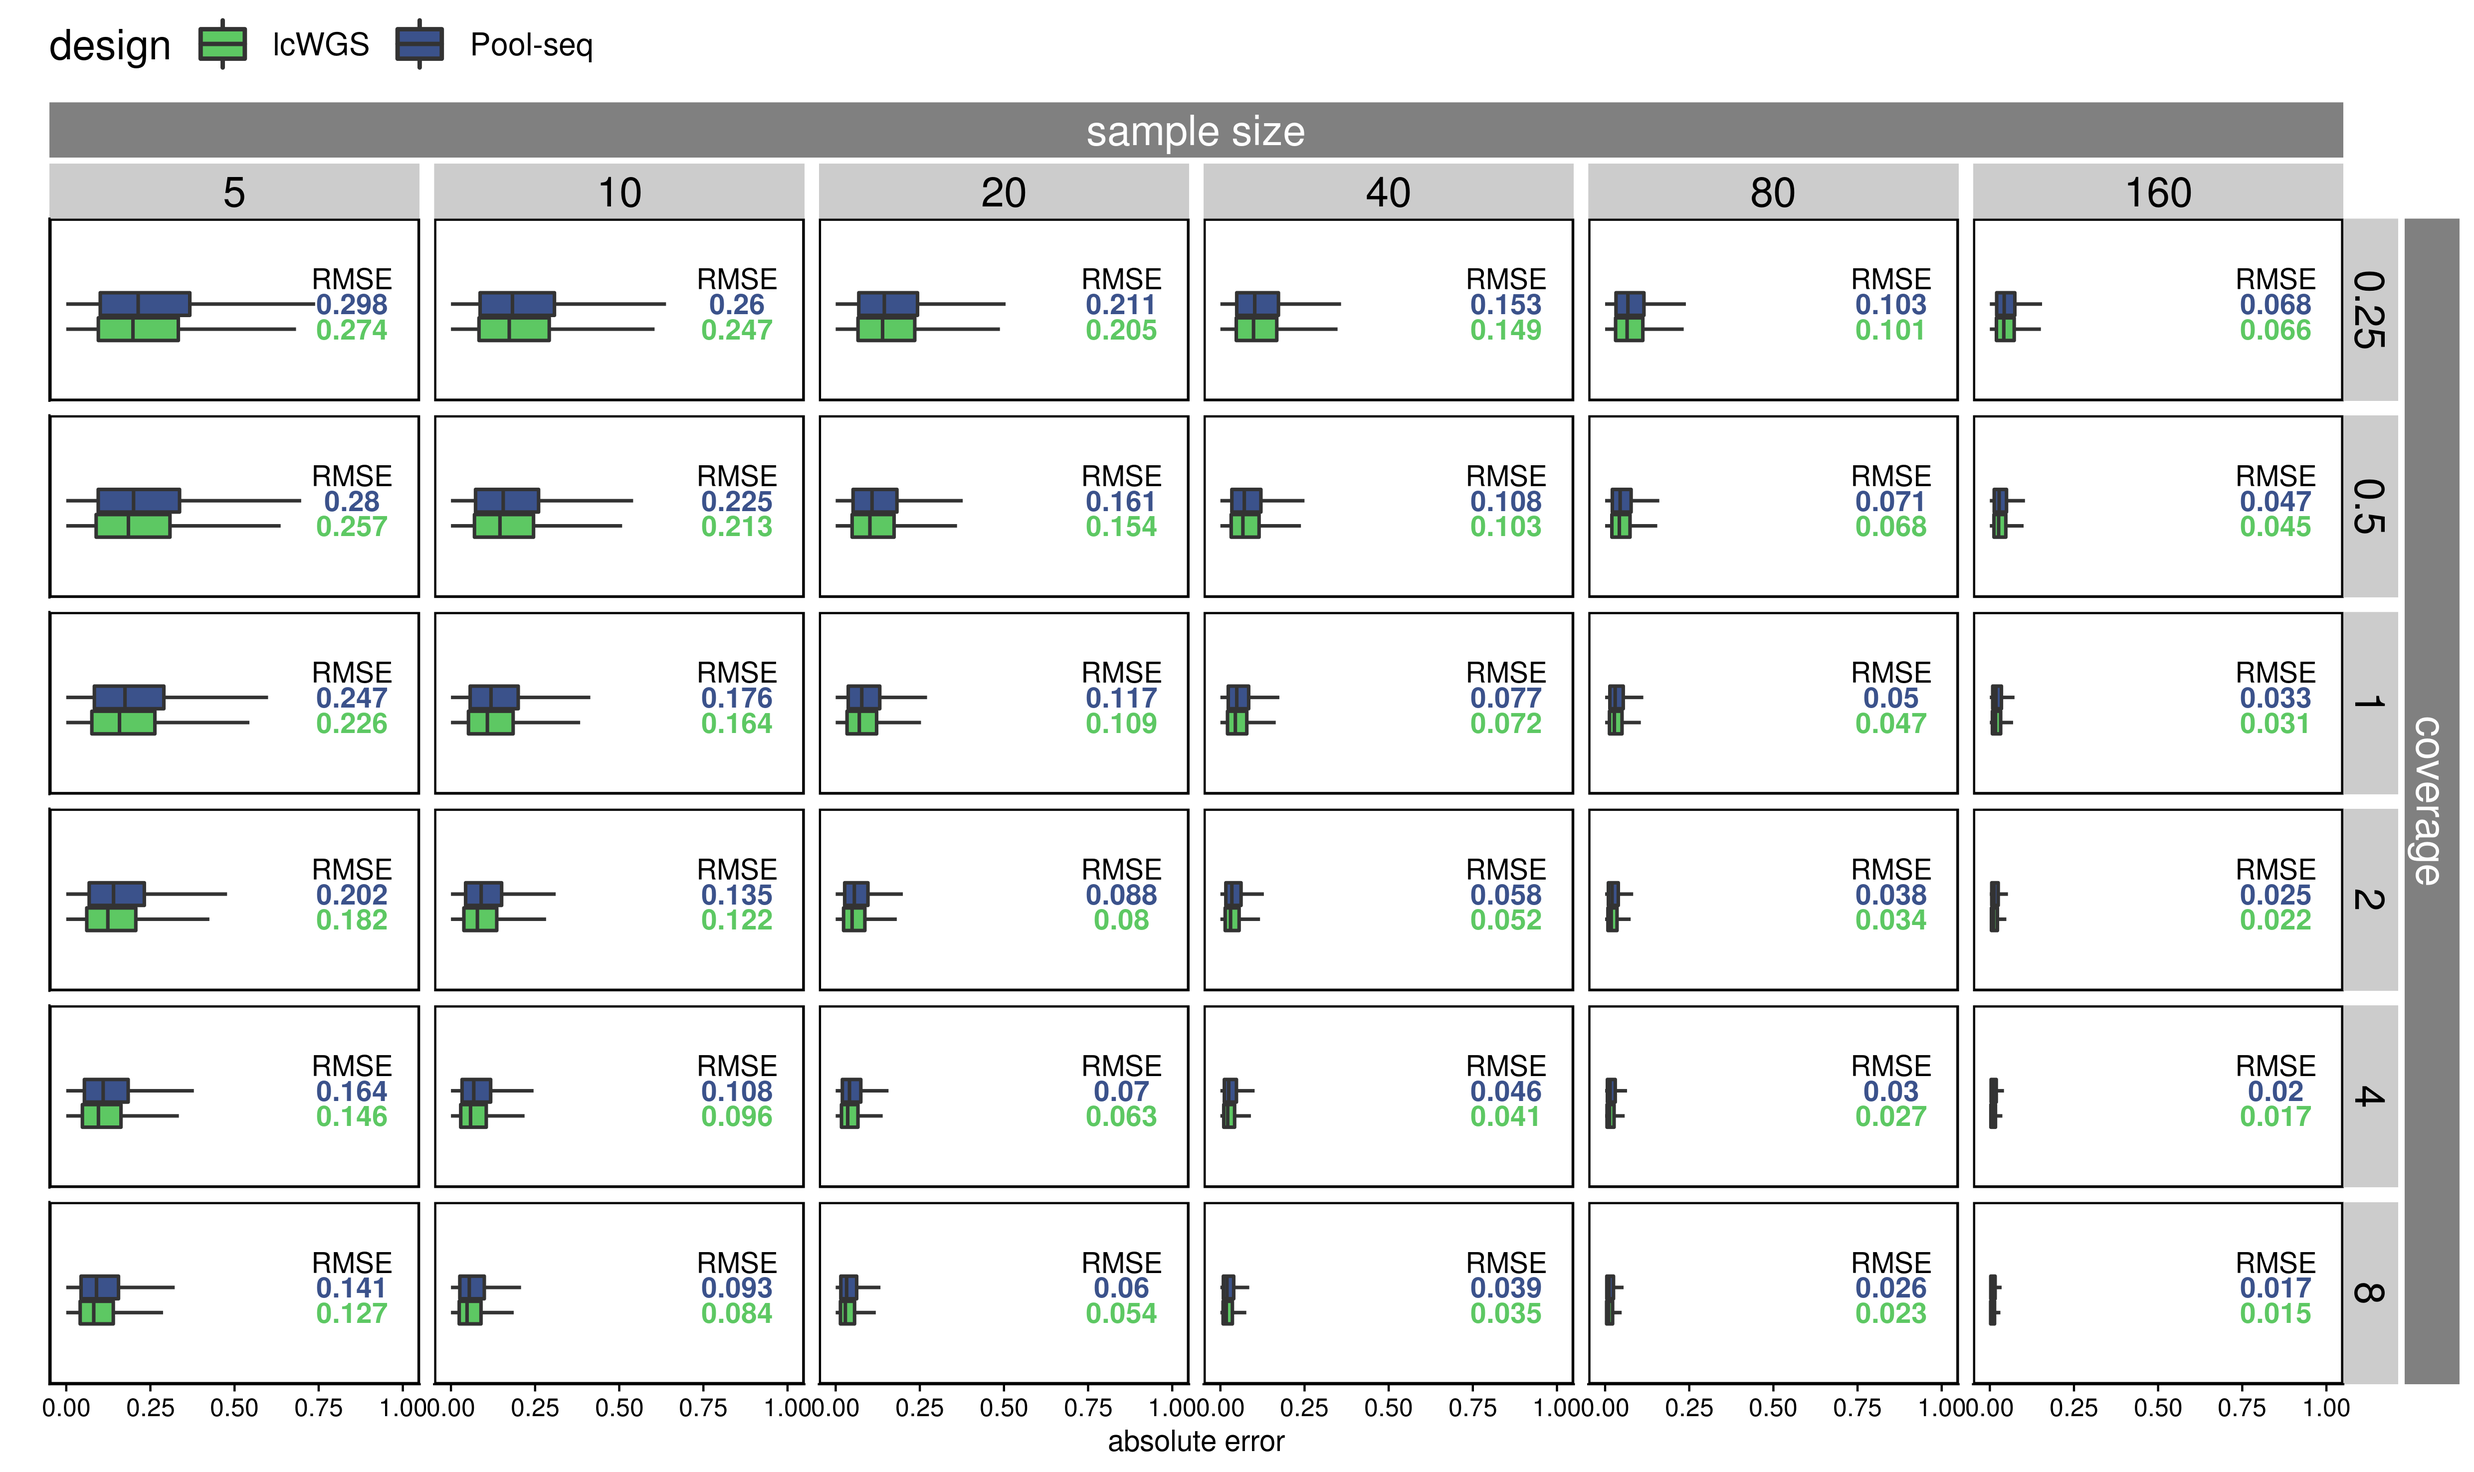
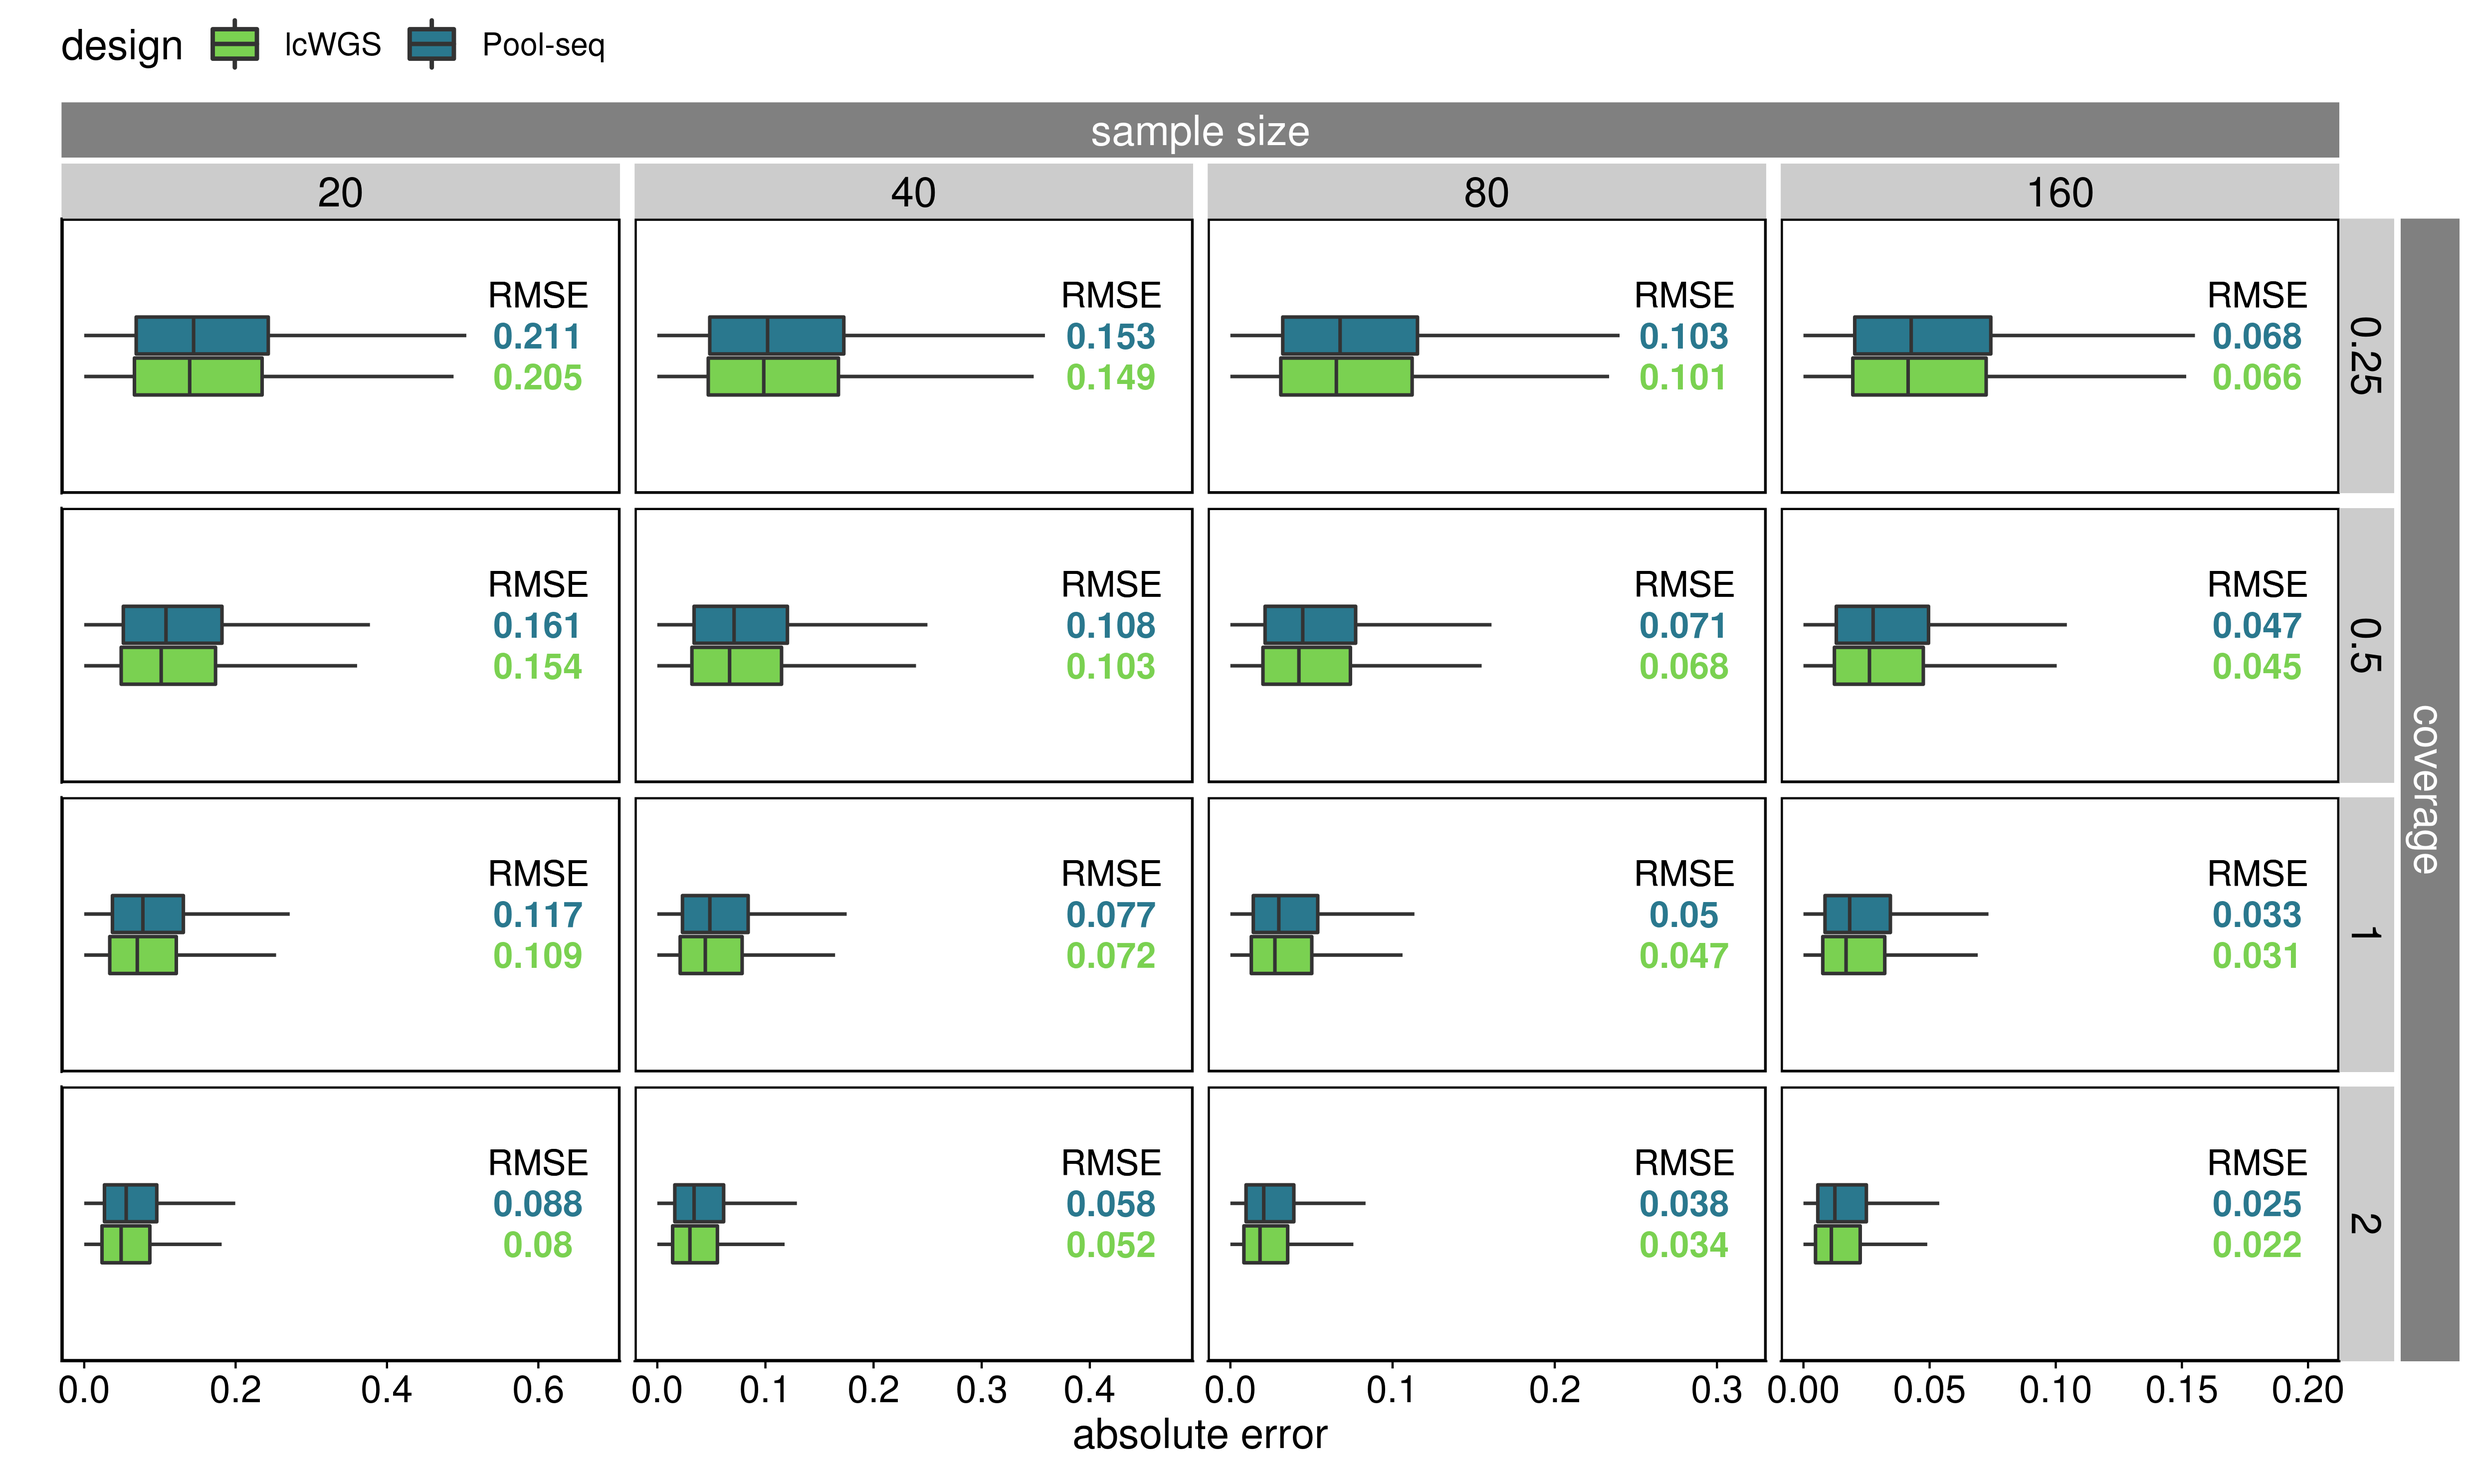
revised poolseq comparison plots

diff --git a/markdowns/figures.md b/markdowns/figures.md
@@ -103,32 +103,46 @@ include_graphics("../figures/error_plot_combined.png")
 
 ``` r
 ## combine these
-joined_frequency_final_combined <- bind_rows(joined_frequency_final_even, joined_frequency_final_pooled_even) 
+joined_frequency_final_combined <- bind_rows(joined_frequency_final_even, joined_frequency_final_pooled_even) %>%
+  filter(coverage<4, sample_size>10)
+
+## get y position for labels
+y_position <- tibble(sample_size = c(20, 40, 80, 160),
+                     y = c(0.6, 0.42, 0.28, 0.18))
 
 ## get summary stats (number of SNPs, RMSE, R-squared)
 joined_summary_table <- group_by(joined_frequency_final_combined, coverage, sample_size, design) %>%
   summarise(r_squared=round(summary(lm(estimated_frequency~frequency))$r.squared,3), 
             n=n(), 
-            root_mean_error_squared=round(sqrt(mean(error^2)), 3))
+            root_mean_error_squared=round(sqrt(mean(error^2)), 3)) %>%
+  left_join(y_position)
   
-joined_frequency_final_combined_test <- joined_frequency_final_combined[sample(1:nrow(joined_frequency_final_combined), 1000000),]
+joined_frequency_final_summary <- joined_frequency_final_combined %>%
+  mutate(abs_error = abs(error)) %>%
+  group_by(coverage, sample_size, design) %>%
+  summarise(boxplot=list(setNames(boxplot.stats(abs_error)$stats,
+                                      c('lower_whisker','lower_hinge','median','upper_hinge','upper_whisker')))) %>%
+  unnest_wider(boxplot)
+  
 ## make the plot
-error_plot_combined <- joined_frequency_final_combined %>%
-  ggplot(aes(y=abs(error), fill=design)) +
-  geom_boxplot(outlier.shape = NA, size = 0.8, notch = F, fatten = 1, width=0.5) +
-  geom_text(data = joined_summary_table, y = 0.85, aes(label=root_mean_error_squared, color = design, x = -0.375+as.numeric(as.factor(design))/4), fontface = "bold", size=4.8, show.legend = F) +
-  annotate("text", x = 0.375, y = 0.85, label="RMSE", size=4.8) +
-  facet_grid(coverage~sample_size) +
-  scale_x_discrete(labels=seq(0.1, 0.9, 0.2))  +
-  scale_fill_viridis_d(labels=c("lcWGS", "Pool-seq"), begin = 0.25, end = 0.75, direction = -1) +
-  scale_color_viridis_d(labels=c("lcWGS", "Pool-seq"), begin = 0.25, end = 0.75, direction = -1) +
+error_plot_combined <- joined_frequency_final_summary %>%
+  ggplot() +
+  geom_boxplot(mapping = aes(lower=lower_hinge, upper=upper_hinge, middle=median, ymin=lower_whisker, ymax=upper_whisker, fill=design, x=0), 
+               size = 0.8, notch = F, fatten = 1, width=0.5, stat="identity") +
+  geom_text(data = joined_summary_table, aes(y=y, label=root_mean_error_squared, color = design, x = -0.375+as.numeric(as.factor(design))/4), fontface = "bold", size=6, show.legend = F) +
+  geom_text(data = joined_summary_table, aes(y=y), x = 0.375, size=6, label = "RMSE", show.legend = F) +
+  facet_grid(coverage~sample_size, scales = "free") +
+  scale_x_discrete()  +
+  scale_fill_viridis_d(labels=c("lcWGS", "Pool-seq"), begin = 0.4, end = 0.8, direction = -1) +
+  scale_color_viridis_d(labels=c("lcWGS", "Pool-seq"), begin = 0.4, end = 0.8, direction = -1) +
   xlab("") +
   ylab("absolute error") +
-  ylim(c(0,1)) +
+  scale_y_continuous(expand=expand_scale(c(0.05, 0.18), 0)) +
   coord_flip() +
   theme_cowplot() +
   theme(strip.text = element_text(size=20),
-        axis.text.x = element_text(angle=0),
+        axis.title = element_text(size=20),
+        axis.text  = element_text(size=18),
         panel.border = element_rect(colour = "black", fill=NA, size=1),
         legend.position = "top",
         legend.title = element_text(size = 20),
@@ -138,18 +152,19 @@ error_plot_combined <- joined_frequency_final_combined %>%
 
 error_plot_combined_grob <- ggplotGrob(error_plot_combined)
 
-error_plot_combined_new <- gtable_add_cols(error_plot_combined_grob, unit(error_plot_combined_grob$widths[[16]], 'cm'), 16)  %>%
+error_plot_combined_new <- gtable_add_cols(error_plot_combined_grob, unit(error_plot_combined_grob$widths[[11]], 'cm'), 13)  %>%
   gtable_add_grob(list(rectGrob(gp = gpar(col = NA, fill = gray(0.5))),
                        textGrob("coverage", rot = -90, gp = gpar(col = gray(1)))),
-                  10, 17, 20, 17, name = paste(runif(2))) %>%
-  gtable_add_cols(unit(1/8, "line"), 16) %>%
+                  10, 14, 16, 14, name = paste(runif(2))) %>%
+  gtable_add_cols(unit(1/8, "line"), 13) %>%
   gtable_add_rows(unit(error_plot_combined_grob$heights[[9]], 'cm'), 8) %>%
   gtable_add_grob(list(rectGrob(gp = gpar(col = NA, fill = gray(0.5))),
                           textGrob("sample size", gp = gpar(col = gray(1)))),
-                     9, 5, 9, 15, name = paste(runif(2))) %>%
+                     9, 5, 9, 11, name = paste(runif(2))) %>%
   gtable_add_rows(unit(1/8, "line"), 9)
 
 ggsave("../figures/error_plot_combined_for_box_2.png", error_plot_combined_new, width = 42, height = 25, units = "cm", pointsize = 20)
+ggsave("../figures/error_plot_combined_for_box_2.pdf", error_plot_combined_new, width = 42, height = 25, units = "cm", pointsize = 20)
 ```
 
 ``` r
@@ -162,32 +177,46 @@ include_graphics("../figures/error_plot_combined_for_box_2.png")
 
 ``` r
 ## combine these
-joined_frequency_final_combined <- bind_rows(joined_frequency_final_uneven, joined_frequency_final_pooled_uneven) 
+joined_frequency_final_combined <- bind_rows(joined_frequency_final_uneven, joined_frequency_final_pooled_uneven) %>%
+  filter(coverage<4, sample_size>10)
+
+## get y position for labels
+y_position <- tibble(sample_size = c(20, 40, 80, 160),
+                     y = c(0.6, 0.42, 0.28, 0.18))
 
 ## get summary stats (number of SNPs, RMSE, R-squared)
 joined_summary_table <- group_by(joined_frequency_final_combined, coverage, sample_size, design) %>%
   summarise(r_squared=round(summary(lm(estimated_frequency~frequency))$r.squared,3), 
             n=n(), 
-            root_mean_error_squared=round(sqrt(mean(error^2)), 3))
+            root_mean_error_squared=round(sqrt(mean(error^2)), 3)) %>%
+  left_join(y_position)
   
-joined_frequency_final_combined_test <- joined_frequency_final_combined[sample(1:nrow(joined_frequency_final_combined), 1000000),]
+joined_frequency_final_summary <- joined_frequency_final_combined %>%
+  mutate(abs_error = abs(error)) %>%
+  group_by(coverage, sample_size, design) %>%
+  summarise(boxplot=list(setNames(boxplot.stats(abs_error)$stats,
+                                      c('lower_whisker','lower_hinge','median','upper_hinge','upper_whisker')))) %>%
+  unnest_wider(boxplot)
+  
 ## make the plot
-error_plot_combined <- joined_frequency_final_combined %>%
-  ggplot(aes(y=abs(error), fill=design)) +
-  geom_boxplot(outlier.shape = NA, size = 0.8, notch = F, fatten = 1, width=0.5) +
-  geom_text(data = joined_summary_table, y = 0.85, aes(label=root_mean_error_squared, color = design, x = -0.375+as.numeric(as.factor(design))/4), fontface = "bold", size=4.8, show.legend = F) +
-  annotate("text", x = 0.375, y = 0.85, label="RMSE", size=4.8) +
-  facet_grid(coverage~sample_size) +
-  scale_x_discrete(labels=seq(0.1, 0.9, 0.2))  +
-  scale_fill_viridis_d(labels=c("lcWGS with uneven coverage", "Pool-seq with uneven coverage"), begin = 0.25, end = 0.75, direction = -1) +
-  scale_color_viridis_d(labels=c("lcWGS with uneven coverage", "Pool-seq with uneven coverage"), begin = 0.25, end = 0.75, direction = -1) +
+error_plot_combined <- joined_frequency_final_summary %>%
+  ggplot() +
+  geom_boxplot(mapping = aes(lower=lower_hinge, upper=upper_hinge, middle=median, ymin=lower_whisker, ymax=upper_whisker, fill=design, x=0), 
+               size = 0.8, notch = F, fatten = 1, width=0.5, stat="identity") +
+  geom_text(data = joined_summary_table, aes(y=y, label=root_mean_error_squared, color = design, x = -0.375+as.numeric(as.factor(design))/4), fontface = "bold", size=6, show.legend = F) +
+  geom_text(data = joined_summary_table, aes(y=y), x = 0.375, size=6, label = "RMSE", show.legend = F) +
+  facet_grid(coverage~sample_size, scales = "free") +
+  scale_x_discrete()  +
+  scale_fill_viridis_d(labels=c("lcWGS with uneven coverage", "Pool-seq with uneven coverage"), begin = 0.4, end = 0.8, direction = -1) +
+  scale_color_viridis_d(labels=c("lcWGS with uneven coverage", "Pool-seq with uneven coverage"), begin = 0.4, end = 0.8, direction = -1) +
   xlab("") +
   ylab("absolute error") +
-  ylim(c(0,1)) +
+  scale_y_continuous(expand=expand_scale(c(0.05, 0.18), 0)) +
   coord_flip() +
   theme_cowplot() +
   theme(strip.text = element_text(size=20),
-        axis.text.x = element_text(angle=0),
+        axis.title = element_text(size=20),
+        axis.text  = element_text(size=18),
         panel.border = element_rect(colour = "black", fill=NA, size=1),
         legend.position = "top",
         legend.title = element_text(size = 20),
@@ -197,15 +226,15 @@ error_plot_combined <- joined_frequency_final_combined %>%
 
 error_plot_combined_grob <- ggplotGrob(error_plot_combined)
 
-error_plot_combined_new <- gtable_add_cols(error_plot_combined_grob, unit(error_plot_combined_grob$widths[[16]], 'cm'), 16)  %>%
+error_plot_combined_new <- gtable_add_cols(error_plot_combined_grob, unit(error_plot_combined_grob$widths[[11]], 'cm'), 13)  %>%
   gtable_add_grob(list(rectGrob(gp = gpar(col = NA, fill = gray(0.5))),
                        textGrob("coverage", rot = -90, gp = gpar(col = gray(1)))),
-                  10, 17, 20, 17, name = paste(runif(2))) %>%
-  gtable_add_cols(unit(1/8, "line"), 16) %>%
+                  10, 14, 16, 14, name = paste(runif(2))) %>%
+  gtable_add_cols(unit(1/8, "line"), 13) %>%
   gtable_add_rows(unit(error_plot_combined_grob$heights[[9]], 'cm'), 8) %>%
   gtable_add_grob(list(rectGrob(gp = gpar(col = NA, fill = gray(0.5))),
                           textGrob("sample size", gp = gpar(col = gray(1)))),
-                     9, 5, 9, 15, name = paste(runif(2))) %>%
+                     9, 5, 9, 11, name = paste(runif(2))) %>%
   gtable_add_rows(unit(1/8, "line"), 9)
 
 ggsave("../figures/error_plot_combined_for_supplement.png", error_plot_combined_new, width = 42, height = 25, units = "cm", pointsize = 20)
